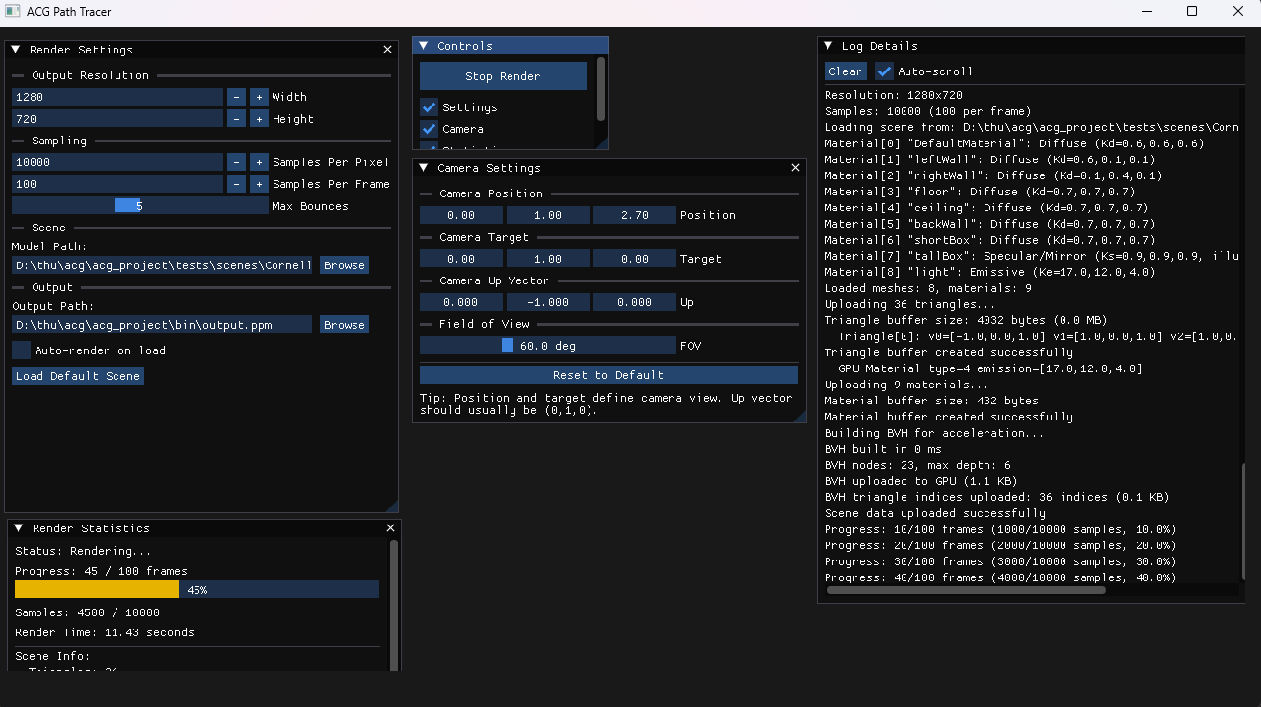
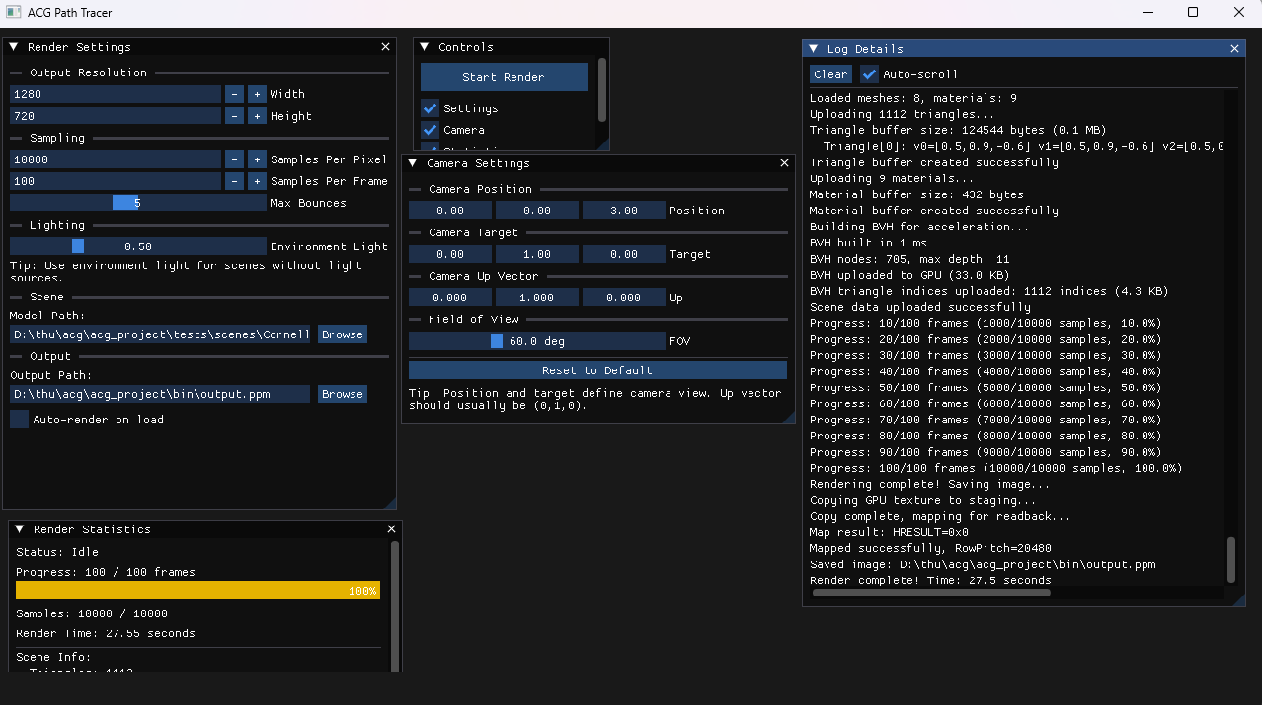
fix: direction bug

diff --git a/src/GUI.cpp b/src/GUI.cpp
@@ -28,6 +28,16 @@ bool GUI::Initialize(HWND hwnd, ID3D11Device* device, ID3D11DeviceContext* conte
     ImGuiIO& io = ImGui::GetIO();
     io.ConfigFlags |= ImGuiConfigFlags_NavEnableKeyboard;
     
+    // Set ImGui ini file path to executable directory
+    static char iniFilePath[MAX_PATH];
+    GetModuleFileNameA(NULL, iniFilePath, MAX_PATH);
+    char* lastSlash = strrchr(iniFilePath, '\\');
+    if (lastSlash) {
+        *(lastSlash + 1) = '\0';
+        strcat_s(iniFilePath, "imgui.ini");
+        io.IniFilename = iniFilePath;
+    }
+    
     // Setup Dear ImGui style
     ImGui::StyleColorsDark();
     
@@ -87,6 +97,10 @@ void GUI::RenderSettingsPanel() {
         ImGui::InputInt("Samples Per Frame", &m_settings.samplesPerFrame);
         ImGui::SliderInt("Max Bounces", &m_settings.maxBounces, 1, 10);
         
+        ImGui::SeparatorText("Lighting");
+        ImGui::SliderFloat("Environment Light", &m_settings.environmentLightIntensity, 0.0f, 2.0f, "%.2f");
+        ImGui::TextWrapped("Tip: Use environment light for scenes without light sources.");
+        
         ImGui::SeparatorText("Scene");
         ImGui::Text("Model Path:");
         ImGui::PushItemWidth(-80);
@@ -117,18 +131,6 @@ void GUI::RenderSettingsPanel() {
         
         ImGui::Spacing();
         ImGui::Checkbox("Auto-render on load", &m_settings.autoRender);
-        
-        ImGui::Spacing();
-        if (ImGui::Button("Load Default Scene")) {
-            // Get absolute path to default scene
-            char absPath[MAX_PATH];
-            const char* relativePath = "tests\\scenes\\CornellBox\\CornellBox-Original.obj";
-            if (GetFullPathNameA(relativePath, MAX_PATH, absPath, NULL)) {
-                m_settings.modelPath = absPath;
-            } else {
-                m_settings.modelPath = relativePath;
-            }
-        }
     }
     ImGui::End();
 }

diff --git a/src/Renderer.cpp b/src/Renderer.cpp
@@ -40,6 +40,7 @@ Renderer::Renderer()
     , m_samplesPerPixel(1)
     , m_maxBounces(5)
     , m_rrDepth(3)
+    , m_environmentLight(0.5f)
     , m_frameCount(0)
     , m_accumulatedSamples(0)
     , m_currentAccumIndex(0)
@@ -124,7 +125,7 @@ void Renderer::RenderFrame(const Scene& scene, const Camera& camera, int samples
             uint32_t numTriangles;
             uint32_t numMaterials;
             uint32_t accumulatedSamples;
-            uint32_t _pad1;
+            float environmentLight;
             uint32_t _pad2;
             uint32_t resX;
             uint32_t resY;
@@ -168,7 +169,7 @@ void Renderer::RenderFrame(const Scene& scene, const Camera& camera, int samples
         params->numTriangles = m_numTriangles;
         params->numMaterials = m_numMaterials;
         params->accumulatedSamples = m_accumulatedSamples;  // Pass current accumulated count
-        params->_pad1 = 0;
+        params->environmentLight = m_environmentLight;
         params->_pad2 = 0;
         params->resX = m_width;
         params->resY = m_height;
@@ -470,6 +471,10 @@ void Renderer::SetMaxBounces(int bounces) {
 
 void Renderer::SetRussianRouletteDepth(int depth) {
     m_rrDepth = depth;
+}
+
+void Renderer::SetEnvironmentLight(float intensity) {
+    m_environmentLight = intensity;
 }
 
 bool Renderer::InitializeD3D() {

diff --git a/include/Renderer.h b/include/Renderer.h
@@ -41,6 +41,7 @@ public:
     void SetSamplesPerPixel(int samples);
     void SetMaxBounces(int bounces);
     void SetRussianRouletteDepth(int depth);
+    void SetEnvironmentLight(float intensity);
     
     // 获取 D3D11 设备和上下文（用于 GUI）
     ID3D11Device* GetDevice() const { return m_device; }
@@ -91,6 +92,7 @@ private:
     int m_samplesPerPixel;
     int m_maxBounces;
     int m_rrDepth;  // Russian Roulette depth
+    float m_environmentLight;  // Environment light intensity
     int m_frameCount;
     int m_accumulatedSamples;  // 已累积的样本数
     

diff --git a/src/main.cpp b/src/main.cpp
@@ -397,6 +397,7 @@ int WINAPI WinMain(HINSTANCE hInstance, HINSTANCE hPrevInstance, LPSTR lpCmdLine
             renderer.SetSamplesPerPixel(settings.samplesPerPixel);
             renderer.SetMaxBounces(settings.maxBounces);
             renderer.SetRussianRouletteDepth(3);
+            renderer.SetEnvironmentLight(settings.environmentLightIntensity);
             renderer.ResetAccumulation();
 
             // Calculate frames

diff --git a/include/GUI.h b/include/GUI.h
@@ -16,6 +16,7 @@ struct RenderSettings {
     int samplesPerFrame = 10;
     int maxBounces = 5;
     float fov = 60.0f;
+    float environmentLightIntensity = 0.5f;  // Environment light fallback
     
     // Camera settings
     float cameraPosition[3] = {0.0f, 1.0f, 2.7f};

diff --git a/README.md b/README.md
@@ -48,7 +48,9 @@ acg_project/
 ├── include/             # Header directory
 │   ├── BVH.h            # BVH acceleration structure
 │   ├── Camera.h         # Camera system
+│   ├── GUI.h            # GUI system (using ImGui)
 │   ├── Light.h          # Lighting system (point light, area light, environment light)
+│   ├── LogRedirector.h  # Redirect console output to GUI log panel
 │   ├── Material.h       # Material system (diffuse, specular, transmissive, PBR)
 │   ├── MathUtils.h      # Math utility functions
 │   ├── Mesh.h           # Geometry mesh
@@ -60,6 +62,7 @@ acg_project/
 ├── src/                 # Source files directory
 │   ├── BVH.cpp
 │   ├── Camera.cpp
+│   ├── GUI.cpp
 │   ├── Light.cpp
 │   ├── Material.cpp
 │   ├── MathUtils.cpp
@@ -87,8 +90,14 @@ acg_project/
 We provide a GUI for users to configure rendering settings and load scenes. The GUI allows you to adjust parameters such as samples per pixel, maximum bounces, and load different 3D models.
 
 <div align="center">
-    <img src="docs/gui.png" alt="GUI Screenshot" width="600"/>
+    <img src="docs/gui.png" alt="GUI Screenshot" width="800"/>
 </div>
+
+- **Render Settings:** Adjust output resolution, sampling parameters, lighting intensity, and scene model paths.
+- **Camera Settings:** Configure camera position, target, up vector, and field of view.
+- **Render Statistics:** Monitor rendering progress, samples, and performance metrics.
+- **Controls:** Start or stop rendering processes.
+- **Log Details:** View log messages and debug information.
 
 ## Development
 ### Dependencies
